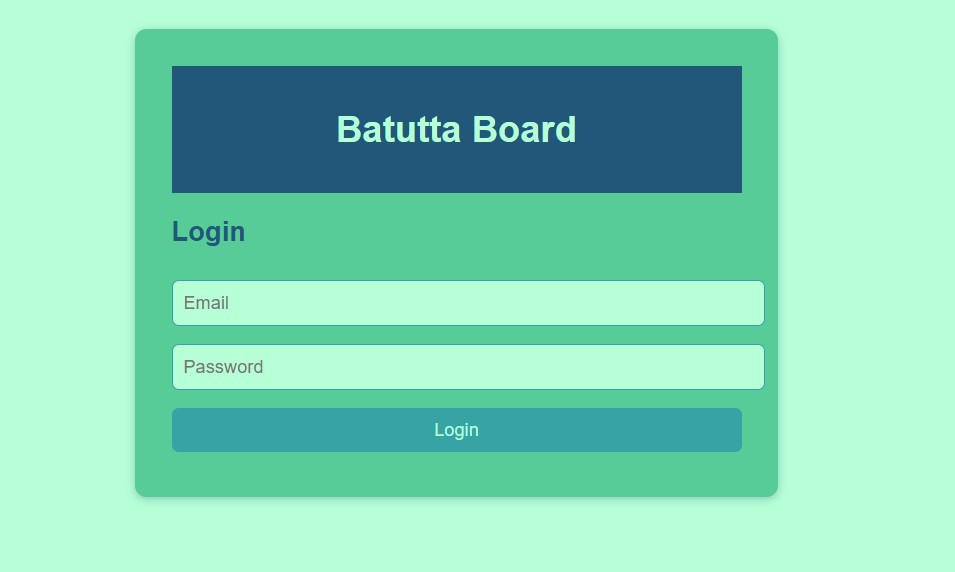
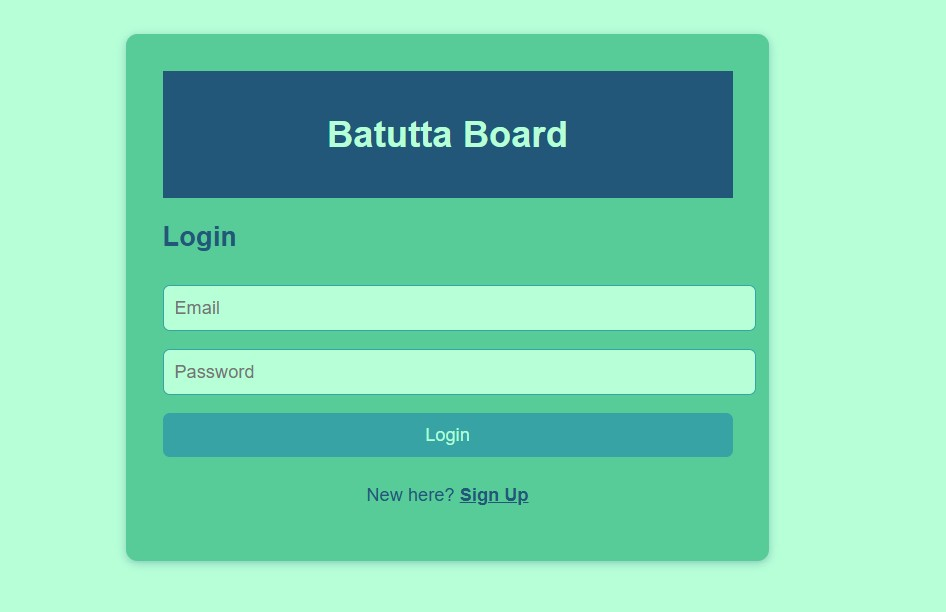
Adding sign up functionality

Changed region(s): [[0.1226, 0.0594, 0.8277, 0.9213], [0.3372, 0.1783, 0.6131, 0.2675], [0.1533, 0.0297, 0.8277, 0.0594]]

diff --git a/frontend/src/pages/SignUp.jsx b/frontend/src/pages/SignUp.jsx
@@ -1,0 +1,97 @@
+import React, { useState } from "react";
+import { useNavigate } from "react-router-dom";
+
+export default function SignUp() {
+  const [formData, setFormData] = useState({
+    username: "",
+    email: "",
+    password: "",
+    dob: "",
+  });
+  const navigate = useNavigate();
+
+  const handleChange = (e) => {
+    setFormData((prev) => ({
+      ...prev,
+      [e.target.name]: e.target.value,
+    }));
+  };
+
+  const handleSignUp = () => {
+    if (
+      !formData.username ||
+      !formData.email ||
+      !formData.password ||
+      !formData.dob
+    ) {
+      alert("Please fill in all fields");
+      return;
+    }
+
+    // Store user data (in a real app, this would go to a backend)
+    const users = JSON.parse(localStorage.getItem("users") || "[]");
+
+    // Check if user already exists
+    if (users.find((u) => u.email === formData.email)) {
+      alert("User already exists with this email");
+      return;
+    }
+
+    users.push(formData);
+    localStorage.setItem("users", JSON.stringify(users));
+    localStorage.setItem("currentUser", formData.username);
+
+    navigate("/dashboard");
+  };
+
+  return (
+    <div id="signUpPage" className="container">
+      <header>
+        <h1>Batutta Board</h1>
+      </header>
+      <h2>Sign Up</h2>
+      <input
+        type="text"
+        name="username"
+        placeholder="Username"
+        value={formData.username}
+        onChange={handleChange}
+      />
+      <input
+        type="email"
+        name="email"
+        placeholder="Email"
+        value={formData.email}
+        onChange={handleChange}
+      />
+      <input
+        type="password"
+        name="password"
+        placeholder="Password"
+        value={formData.password}
+        onChange={handleChange}
+      />
+      <input
+        type="date"
+        name="dob"
+        placeholder="Date of Birth"
+        value={formData.dob}
+        onChange={handleChange}
+      />
+      <button onClick={handleSignUp}>Sign Up</button>
+      <p style={{ textAlign: "center", marginTop: "1rem" }}>
+        Already have an account?{" "}
+        <span
+          style={{
+            color: "#22577A",
+            cursor: "pointer",
+            textDecoration: "underline",
+          }}
+          onClick={() => navigate("/login")}
+        >
+          Login
+        </span>
+      </p>
+    </div>
+  );
+}

diff --git a/frontend/src/pages/Login.jsx b/frontend/src/pages/Login.jsx
@@ -1,15 +1,29 @@
-import React, { useState } from 'react';
-import { useNavigate } from 'react-router-dom';
+import React, { useState } from "react";
+import { useNavigate } from "react-router-dom";
 
 export default function Login() {
-  const [email, setEmail] = useState('');
+  const [email, setEmail] = useState("");
+  const [password, setPassword] = useState("");
   const navigate = useNavigate();
 
   const handleLogin = () => {
-    if (!email) return;
-    const username = email.split('@')[0];
-    localStorage.setItem('currentUser', username);
-    navigate('/dashboard');
+    if (!email || !password) {
+      alert("Please fill in all fields");
+      return;
+    }
+
+    // Verify user credentials
+    const users = JSON.parse(localStorage.getItem("users") || "[]");
+    const user = users.find(
+      (u) => u.email === email && u.password === password
+    );
+
+    if (user) {
+      localStorage.setItem("currentUser", user.username);
+      navigate("/dashboard");
+    } else {
+      alert("Invalid email or password");
+    }
   };
 
   return (
@@ -24,8 +38,27 @@ export default function Login() {
         value={email}
         onChange={(e) => setEmail(e.target.value)}
       />
-      <input type="password" placeholder="Password" />
+      <input
+        type="password"
+        placeholder="Password"
+        value={password}
+        onChange={(e) => setPassword(e.target.value)}
+      />
       <button onClick={handleLogin}>Login</button>
+      <p style={{ textAlign: "center", marginTop: "1rem" }}>
+        New here?{" "}
+        <span
+          style={{
+            color: "#22577A",
+            cursor: "pointer",
+            textDecoration: "underline",
+            fontWeight: "bold",
+          }}
+          onClick={() => navigate("/signup")}
+        >
+          Sign Up
+        </span>
+      </p>
     </div>
   );
 }

diff --git a/frontend/src/App.jsx b/frontend/src/App.jsx
@@ -2,6 +2,7 @@ import React from 'react';
 import { BrowserRouter as Router, Routes, Route, Navigate } from 'react-router-dom';
 import Home from './pages/Home';
 import Login from './pages/Login';
+import SignUp from './pages/SignUp';
 import Dashboard from './components/Dashboard';
 import PersonalDashboard from './pages/PersonalDashboard';
 
@@ -13,6 +14,7 @@ export default function App() {
       <Routes>
         <Route path="/" element={<Home />} />
         <Route path="/login" element={<Login />} />
+         <Route path="/signup" element={<SignUp />} />
         <Route path="/dashboard" element={currentUser ? <Dashboard /> : <Navigate to="/dashboard" />} />
         <Route path="/personal" element={currentUser ? <PersonalDashboard /> : <Navigate to="/PersonalDasboard" />} />
       </Routes>

diff --git a/README.md b/README.md
@@ -13,6 +13,10 @@ Create, share, and discover travel plans effortlessly — all in one dashboard.
 
 ![Login page](https://raw.githubusercontent.com/aditi21paul/BatuttaBoard/054c3c0006f5553a9cd7b62f29741b7101f3766a/images/p2.jpg)
 
+and if signing up for the first time
+
+![Sign up page](https://raw.githubusercontent.com/aditi21paul/BatuttaBoard/054c3c0006f5553a9cd7b62f29741b7101f3766a/images/p12.jpg)
+
 * 🧭 **Dashboard View** – Displays all existing travel cards with trip details like source, destination, date, and contact info.
 
 ![Dashboard](https://raw.githubusercontent.com/aditi21paul/BatuttaBoard/054c3c0006f5553a9cd7b62f29741b7101f3766a/images/p3.jpg)
